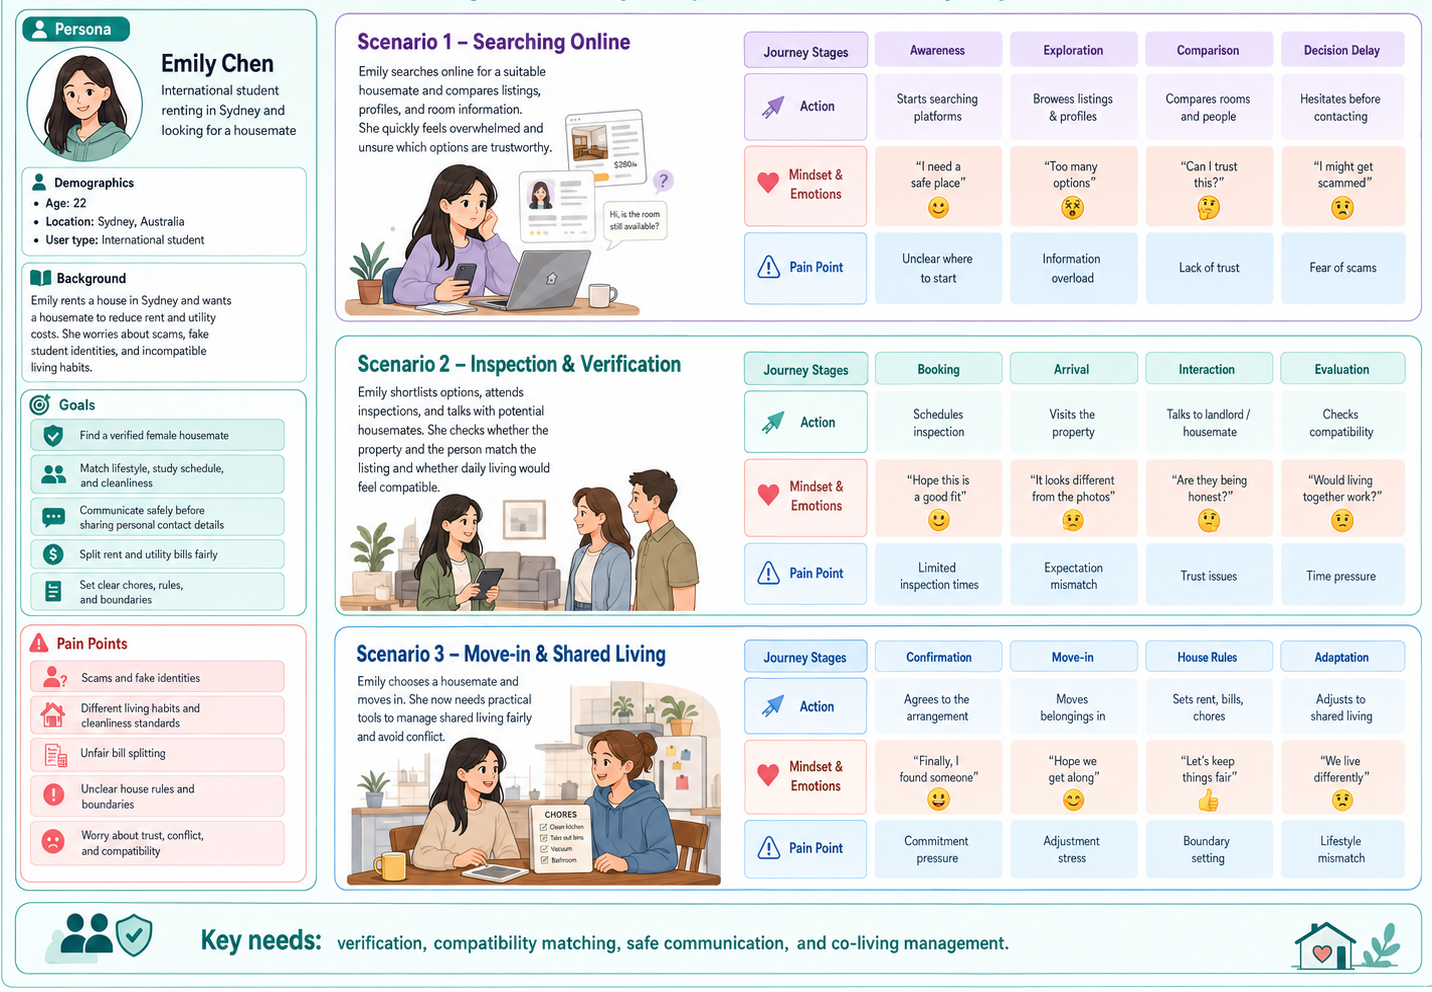
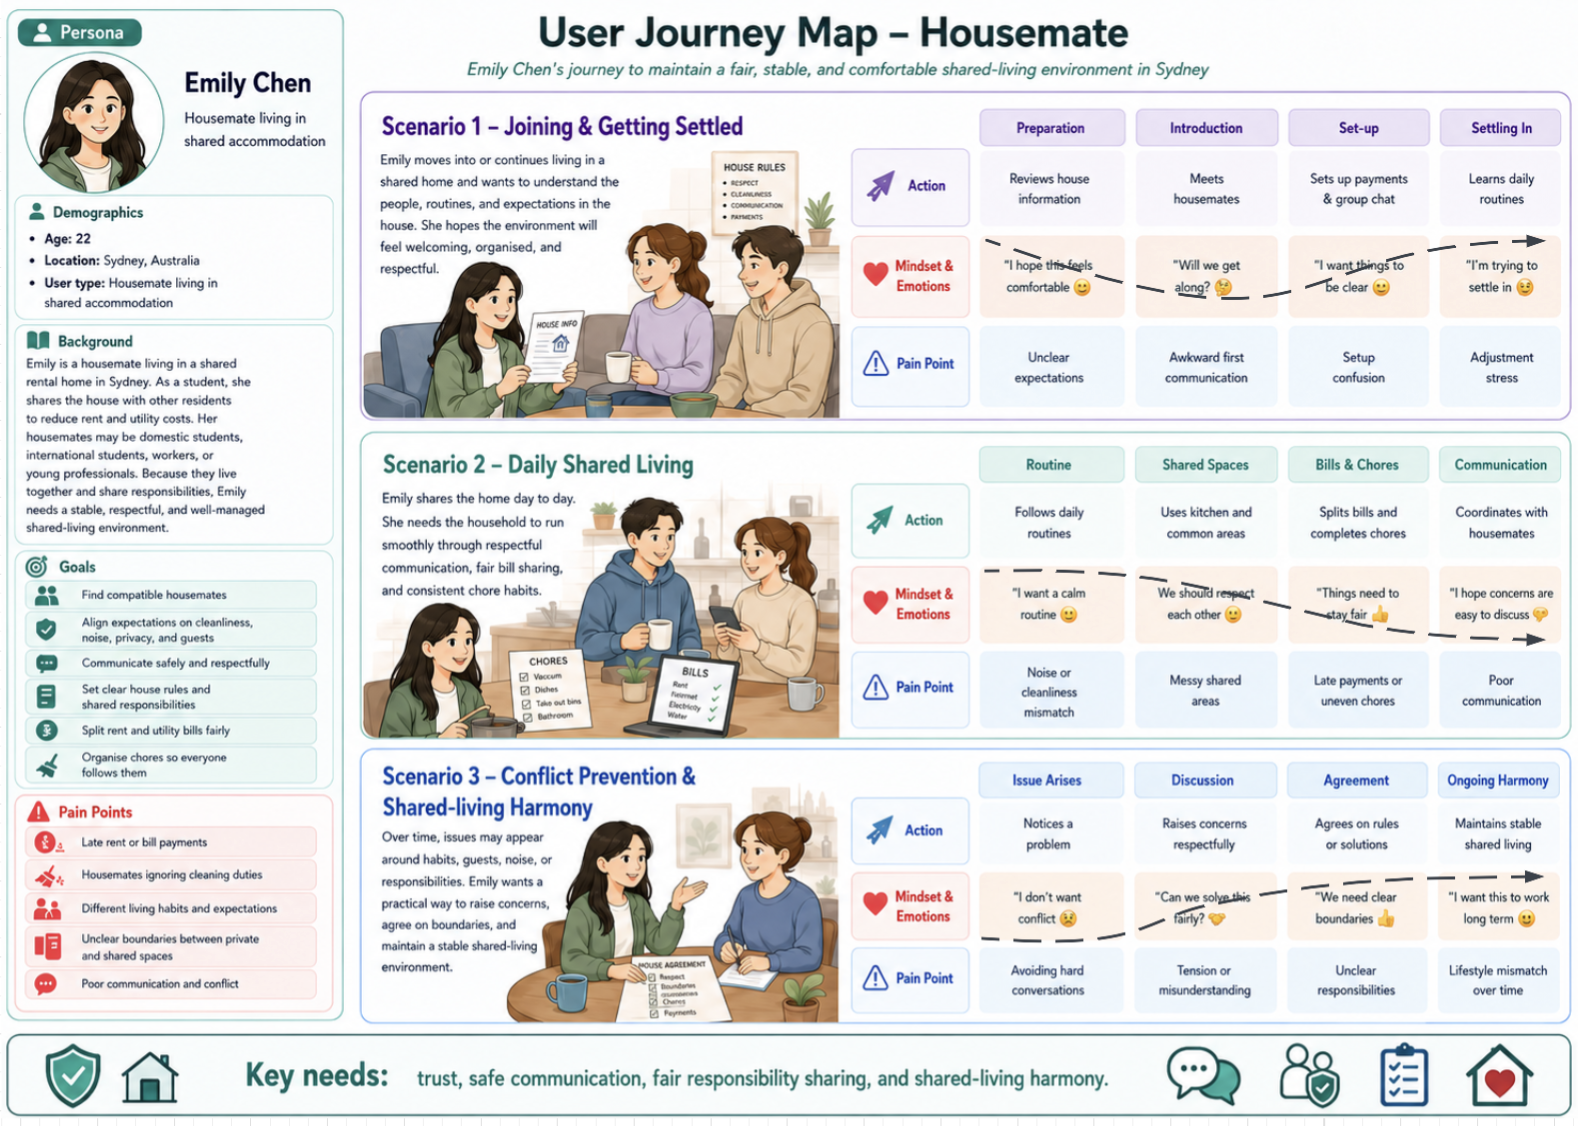
Use general resident persona wording

diff --git a/week1to4_group_report/group_report_week4.tex b/week1to4_group_report/group_report_week4.tex
@@ -94,7 +94,7 @@ Stakeholder mapping helped the team identify the groups affected by shared livin
         Stakeholder & Needs & Impact if unmet & Priority & Evidence source\\
         \midrule
         International students & They need listings they can trust, rental information they can understand and housemates who fit their routines. & They may face scams, choose unsuitable housing or feel stressed before arrival. & Primary & Survey and interview\\
-        Existing housemates & They need applicants who are reliable, tidy and respectful. & The household may experience conflict, unpaid bills and uneven responsibility sharing. & Primary & Survey, interview and persona\\
+        General residents & They need applicants who are reliable, tidy and respectful. & The household may experience conflict, unpaid bills and uneven responsibility sharing. & Primary & Survey, interview and persona\\
         Domestic students & They need simple ways to discuss household work, bills and communication. & Shared living can become tense, and social connection may weaken. & Secondary & Domestic survey\\
         Property managers & They need enquiries that are easier to handle and applicants who provide enough information. & They may deal with repeated messages and incomplete applications. & Secondary & Persona analysis\\
         Students with accessibility or stress needs & They need search and communication flows that reduce cognitive load. & They may be excluded by unclear or demanding processes. & Affected & Stakeholder mapping\\
@@ -103,7 +103,7 @@ Stakeholder mapping helped the team identify the groups affected by shared livin
     \label{tabstakeholders}
 \end{table}
 
-International students and existing housemates were prioritised because both groups carry substantial risk at the point of commitment. International students must judge unfamiliar listings and rental norms, while existing housemates must live with the consequences of poor matching. The team used primary users for persona and journey mapping, while secondary and affected stakeholders informed the constraints and risks.
+International students and general residents were prioritised because both groups carry substantial risk at the point of commitment. International students must judge unfamiliar listings and rental norms, while general residents must live with the consequences of poor housemate matching. The team used primary users for persona and journey mapping, while secondary and affected stakeholders informed the constraints and risks.
 
 \section{Research Methods and Synthesis}
 
@@ -210,7 +210,7 @@ Domestic student findings showed that informal household systems can fail after 
 
 \section{Personas, Scenarios and Journey Maps}
 
-The four personas were developed from survey findings, interview insights and team synthesis artefacts. They were used to turn repeated research themes into concrete user situations, rather than treating users as abstract groups. Together, the personas show how different stakeholders experience the accommodation decision process from different positions. International students face uncertainty when judging unfamiliar listings before arrival. Existing housemates need confidence that a new person will fit into the household. Domestic students already living in shared accommodation reveal how unclear agreements around chores, bills and house rules can become conflict after move in. Property managers show the operational constraints around listing trust, enquiry handling and applicant screening.
+The four personas were developed from survey findings, interview insights and team synthesis artefacts. They were used to turn repeated research themes into concrete user situations, rather than treating users as abstract groups. Together, the personas show how different stakeholders experience the accommodation decision process from different positions. International students face uncertainty when judging unfamiliar listings before arrival. Emily Chen represents a general resident perspective, where the main concern is whether a new person will fit into an existing household. Domestic students already living in shared accommodation reveal how unclear agreements around chores, bills and house rules can become conflict after move in. Property managers show the operational constraints around listing trust, enquiry handling and applicant screening.
 
 Across the four personas, the strongest pattern is that users need clearer information before they make or accept a commitment. Trust, compatibility, communication and shared responsibility expectations appear in different ways for each persona, but they all affect the same decision point. Users are often asked to choose a room, contact a landlord, accept a housemate or continue living with an informal household system before they have enough reliable information. For this reason, the personas were used with scenarios and journey maps to identify where the current experience breaks down and where a design intervention could reduce uncertainty.
 
@@ -223,7 +223,7 @@ Across the four personas, the strongest pattern is that users need clearer infor
         Persona & Research basis & Scenario for validation & Journey map pain point\\
         \midrule
         International student & Scam concern, unfamiliar Australian rental norms, language barriers and need for clear listing details. & The student shortlists accommodation before arriving in Australia and decides whether a listing is safe enough to contact. & The student cannot easily verify whether the listing, landlord or housemates are trustworthy.\\
-        Existing housemate & Cleanliness, privacy, bills, shared rules and respect for household routines. & The housemate chooses a new person for an existing share house and wants to avoid future conflict. & It is difficult to discuss expectations clearly before the person moves in.\\
+        General resident & Cleanliness, privacy, bills, shared rules and respect for household routines. & Emily chooses a new person for an existing share house and wants to avoid future conflict. & It is difficult to discuss expectations clearly before the person moves in.\\
         Domestic shared living student & Chore conflict, late bill payment, informal agreements and weak accountability after move in. & The student tries to keep the household organised after move in while chores and bills rely on verbal agreement. & Informal systems fail because responsibilities are not visible, recorded or consistently followed.\\
         Property manager & Listing accuracy, enquiry handling, applicant reliability and administrative workload. & The property manager publishes a listing, answers repeated questions, screens applicants and coordinates inspection or move in information. & High enquiry volume and incomplete applications make trust and communication harder to manage.\\
         \bottomrule
@@ -240,12 +240,12 @@ The international student persona represents users who are unfamiliar with Austr
     \label{figintpersona}
 \end{figure}
 
-The existing housemate persona represents users who already live in a shared house and need to decide whether a potential new housemate is suitable. This persona is important because a poor match affects the whole household after move in. The journey map shows that the most difficult moment is not finding someone interested in the room, but judging whether that person will respect shared spaces, pay bills on time, communicate clearly and follow household expectations.
+The Emily Chen persona is treated as a general resident, not as an international student. This perspective represents people who already live in a shared house and need to decide whether a potential new housemate is suitable. The persona is important because a poor match affects the whole household after move in. The journey map shows that the most difficult moment is not finding someone interested in the room, but judging whether that person will respect shared spaces, pay bills on time, communicate clearly and follow household expectations.
 
 \begin{figure}[H]
     \centering
     \includegraphics[width=\textwidth,height=0.48\textheight,keepaspectratio]{housemate_emily_chen_persona.png}
-    \caption{Existing housemate persona, scenario and journey map.}
+    \caption{Emily Chen general resident persona, scenario and journey map.}
     \label{fighthousematepersona}
 \end{figure}
 
@@ -283,7 +283,7 @@ The synthesis table links user goals with the problems found in the research and
         Common goal & Pain point & Evidence source & Design implication\\
         \midrule
         Find safe accommodation & Users struggle to judge whether a listing is genuine. & International survey and interview & The product should help users check listing identity and evidence.\\
-        Choose suitable housemates & Lifestyle habits are hard to see before commitment. & Survey and interview & Profiles should ask about routines and expectations in plain terms.\\
+        Choose suitable housemates & Lifestyle habits are hard to see before commitment. & Survey, interview and Emily Chen persona & Profiles should ask about routines and expectations in plain terms.\\
         Communicate clearly & Replies may arrive late or miss information users need. & Interview and accommodation search journey map & Messaging should guide the questions users need to ask.\\
         Avoid future conflict & Household work, bills and rules are often not discussed early enough. & Domestic survey & The experience should surface shared expectations before move in.\\
         Decide with confidence & Users feel pressure when evidence is incomplete. & Journey maps & The product should help users compare options and review expectations before deciding.\\
@@ -296,7 +296,7 @@ The synthesis table links user goals with the problems found in the research and
 
 \subsection{Convergence From Research}
 
-The team first explored trust in rentals, how housemates communicate, how household responsibilities are shared and how conflict develops. Survey and interview findings showed that many of these concerns connect to an earlier decision point. Students often commit to accommodation or housemates before they have enough reliable information about listing legitimacy, lifestyle fit and responsibility expectations. The team therefore focused on the stage where students evaluate accommodation and housemates before commitment.
+The team first explored trust in rentals, how housemates communicate, how household responsibilities are shared and how conflict develops. Survey and interview findings showed that many of these concerns connect to an earlier decision point. Students and shared-house residents often commit to accommodation or housemates before they have enough reliable information about listing legitimacy, lifestyle fit and responsibility expectations. The team therefore focused on the stage where users evaluate accommodation and housemates before commitment.
 
 \boxfigure{Convergence diagram linking research themes to final problem definition}{Trust concerns, housemate fit, communication barriers and responsibility expectations meet at the same decision point. Students need better support while evaluating accommodation and housemates before commitment.}{figconvergence}
 
@@ -310,7 +310,7 @@ This problem matters because it appears before users make a risky housing decisi
 
 \section{Conclusion}
 
-This report demonstrates the Empathise and Define stages of the project. The research evidence led the team to a specific problem. Students need stronger support before they commit to a room or housemate. The next design phase should test concepts that help users check trust, understand compatibility and agree on shared living expectations before move in.
+This report demonstrates the Empathise and Define stages of the project. The research evidence led the team to a specific problem. Students and shared-house residents need stronger support before they commit to a room or housemate. The next design phase should test concepts that help users check trust, understand compatibility and agree on shared living expectations before move in.
 
 \newpage
 \section{References}
@@ -334,7 +334,7 @@ The interview asked why accommodation search feels frustrating and why very chea
         Topic & Interview insight & Use in report\\
         \midrule
         Trust & Very cheap social media listings can feel suspicious when the information is incomplete. & Supports the trust and safety finding.\\
-        Compatibility & Cleanliness, privacy and schedule fit were treated as practical shared living needs. & Supports the housemate compatibility persona.\\
+        Compatibility & Cleanliness, privacy and schedule fit were treated as practical shared living needs. & Supports the Emily Chen general resident persona.\\
         Listing information & The participant expected location details, realistic photos, reviews and information about nearby facilities before deciding. & Supports the communication and information gap finding.\\
         \bottomrule
     \end{tabularx}